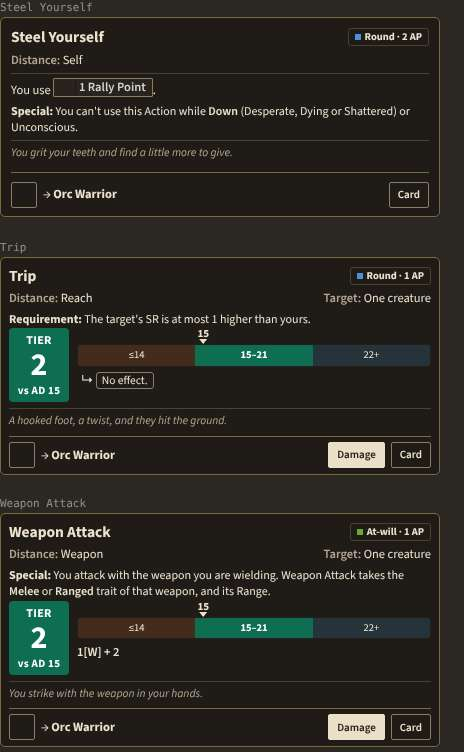
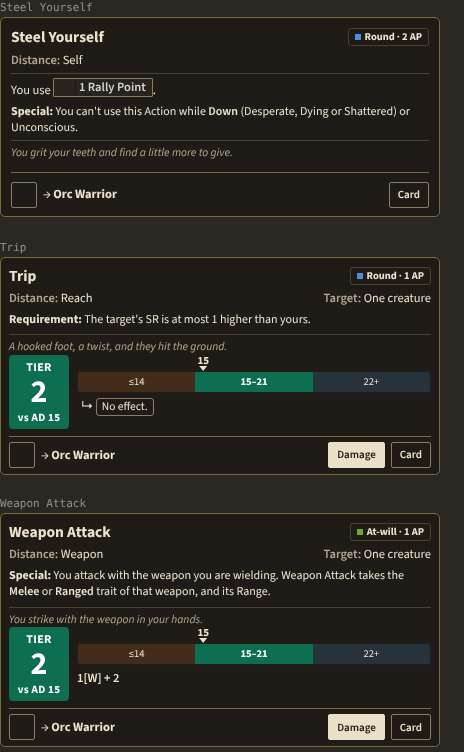
v0.0.465: Art card toggle and placement, Nonlethal switch as a cost, chat follows dice, Special and Flavor above the roll, Empowered on the map, Shake Off card
Claude-Session: https://claude.ai/code/session_0153o4CgPzGXNWFbB3JUtc8q

Changed region(s): [[0.0, 0.7952, 0.9353, 0.9481], [0.0, 0.4282, 0.9353, 0.5811]]

diff --git a/foundry/to-test.md b/foundry/to-test.md
@@ -19,116 +19,47 @@ differ):
 
 ## Characters and sheets
 
-### guard-zero · v0.0.463 · Guard down to 0 with kept AP
-Do: Aveline ends her turn with 1 AP kept (it gives Guard); on her sheet, right-click the Guard until it stops.
-Expect: The number goes down to 0 (her own Guard first, then the kept AP's).
-
-
-### pc-symbols · v0.0.460 · The stat symbols on the PC sheet
-Do: Open Aveline's sheet (dark and light).
-Expect: AD, WD, Speed, Reach, Size, Steady and Guard have the same small symbols as the NPC sheet (AD a shield with a dot, WD the talisman); Immune / Resist / Weak theirs; the Attributes none.
-
-### inventory · v0.0.460 · The Inventory's menus close on a second click
-Do: Open Sylwen's Inventory; click the Dagger's Where button, then click it again; same with the Hunting Bow's Where; on her Overview, click a hand tile twice.
-Expect: The second click closes the menu (it no longer flicks open again).
-Rev: 2
-
 ## The HUD
 
-### sit-pictures · v0.0.460 · Pictures in the Situational section
-Do: Start a combat with three Goblin Sneaks set as one squad (Initiative window); when the squad's turn comes, read the HUD's Situational section.
-Expect: The goblins' pictures are small squares (about 34 px) in one wrapping row; the section doesn't fill or need scrolling for them. If what covered the section was something else, send a screenshot.
-
-### setup-squares · v0.0.461 · A Setup's squares left, in the Situational section
-Do: In a combat, Sylwen uses Strafe (the Advance Setup): read the HUD's Situational section, move her token 2 squares, read it again; then Cancel.
-Expect: "Strafe: You Advance. Move your token, then Continue." (no braces), "4 of 6 squares left" on its own line with the number big, updated as she moves; Continue: the roll filled, Cancel the Action quiet, and the key line "Enter Continue · Esc Cancel the Action · Right-click pans the map".
-Rev: 2
-
-### art-card · v0.0.460 · The Art's card: moved, and a Mode used at once
-Do: Aveline clicks Commandment on her HUD; drag the card by its top line; click outside it; click a Mode's "Use · 1 AP"; open it again and Shift-click a Mode's Use.
-Expect: The card moves with the drag and, once moved, stays open on an outside click (the ×, Escape or a Use close it). A plain click uses the Mode straight to the chat (no roll dialog, unless something blocks it, such as no target); Shift-click opens the roll dialog.
-Rev: 2
+### art-card · v0.0.465 · The Art's card: where it opens, a second click
+Do: Aveline clicks Commandment on her HUD; click Commandment again; open it again and right-click Commandment; open it from her sheet.
+Expect: The card opens beside the Art clicked (to its right, its bottom level with it), not high up the window. A second click on the Art closes it (it doesn't reopen); a right-click on it closes it too.
+Rev: 3
 
 ## Starting a combat
 
-### judge-start · v0.0.462 · Judge on the Start of the Encounter card, once
-Do: Put Aveline, Durgan and the Ogre Chieftain in a combat, roll Initiative and start it; Resolve the card.
-Expect: One Judge row for each Paladin (not two), each with its Judge button; Resolve asks each for its target once. No "The Combat … does not exist" error in the console when a combat is deleted mid-movement.
-Rev: 2
-
 ## The roll dialog
-
-### area-place · v0.0.460 · An area Action: Place before the targets
-Do: With the Orc Warrior targeted, Durgan uses Word of Radiance from his HUD (not the sheet): read the dialog; click "Place 2 Emanation" and place it; then use it again and press Roll without placing.
-Expect: From the HUD as from the sheet, the dialog opens first (no area asked before it). No creature rows until the area is placed: a "Place 2 Emanation" button stands where they go, its outline pulsing slowly in bronze. Placed, the creatures in it show. Roll without placing asks to place it, then rolls.
 
 ### warn-dialog · v0.0.460 · Rules broken: warnings in the roll dialog
 Do: As a player (not the GM): Sylwen targets the Orc Warrior behind a wall (all four corners blocked) and uses a Weapon Attack; then a target the GM marked Unsensed; then Quick Shots' second shot at the creature of the first; give her bow Reload and shoot it unloaded.
 Expect: None of them stops the Action: the roll dialog opens with its warning written above the bottom bar, one ruled line with a small red warning icon ("No Line of Effect to Orc Warrior: all four corners are blocked", "… is Unsensed: it can't be targeted (the roll is Doomed)", "… was already a target: the card asks for a different creature", "… is unloaded: Reload it before using it again"), and Roll works.
 Rev: 2
 
-### g2-darting · v0.0.460 · Darting Blade draws its Light weapon
-Do: Sylwen with her Hunting Bow in both hands and her Dagger on her (Inventory: "On you"), no off-hand weapon: use Darting Blade on the Orc Warrior and Roll. Then put the Dagger in her pack (no Light weapon at all) and use it again.
-Expect: With the Dagger on her: the dialog shows the Dagger's Strike (not Fists); on Roll a chat line says "Sylwen draws Dagger, Hunting Bow in one hand (Darting Blade's Setup)", the Dagger is in her off hand and the bow in one hand. With no Light weapon: the roll dialog opens with the warning "Darting Blade needs a light weapon in hand" above its bar (it then rolls with what she holds), and Roll still works.
-Rev: 3
-
-### reload-chip · v0.0.460 · The Reload shot's chip
-Do: Give Sylwen's bow the Reload property (its sheet) and open a Weapon Attack's roll dialog with it; click the "Reload shot" chip on, then off, without clicking anywhere else.
-Expect: No red outline after a click: green when on, dashed and struck through when off. (Pressing Tab still shows a blue focus outline.)
-Rev: 2
-
-### warn-only · v0.0.460 · A Requirement warns in the roll dialog
-Do: On Sylwen's turn, move a square, then use Wounding Shot.
-Expect: No Foundry popup: the roll dialog opens with "Wounding Shot: Sylwen has left its square this turn (its Requirement). Used anyway." written above its bar, and Roll works. (With the HUD's Skip roll dialog on, the popup comes instead.)
-Rev: 2
-
 ## Chat cards
 
-### save-nonlethal · v0.0.460 · A Save Action switched to Nonlethal
-Do: Durgan uses Word of Radiance on two goblins; in the roll dialog's Damage row, turn on "Nonlethal: +1 Boon on each Save", Use; each goblin rolls its Save; apply the damage.
-Expect: The switch is in the Damage row (next to Empowered). No Bane on Durgan. Each goblin's Save dialog starts with 1 Boon more. The damage card says Nonlethal and the damage is applied as Nonlethal.
-Rev: 2
-
-### dmg-ledger · v0.0.460 · Apply's right-click menu
-Do: Durgan Smites the Orc Warrior with the chat scrolled to the bottom (the card the last message); right-click Apply; then, once applied, right-click Undo.
-Expect: The menu (Apply full / Apply half, rounded up / Apply double) floats over the page by the button, above it when there is no room below, never under the chat's input; a click on a line applies it and closes the menu.
-Rev: 2
-
-### chat-follow · v0.0.460 · The chat follows a growing card
-Do: With the chat at its bottom, Sylwen makes a Weapon Attack on the Orc Warrior: click Damage, then Apply; then Durgan Smites it (Damage, Apply). Then scroll up a little and click a damage stamp's link to its roll card.
-Expect: At the bottom, the chat follows the card each time it grows (after Damage, after Apply, after the dice): its last line stays in sight. Scrolled up, or after the jump to the roll card, it stays where you are.
+### save-nonlethal · v0.0.465 · A Save Action's Nonlethal switch looks like a cost
+Do: Durgan uses Word of Radiance on two goblins; look at the roll dialog's Damage row; turn the switch on.
+Expect: "Nonlethal: +1 Boon on each Save" has a red outline and a minus mark (a cost, like a Bane), on and off.
 Rev: 3
 
-### empowered-one · v0.0.460 · Empowered with several creatures: you choose
-Do: Give Sylwen Empowered; she uses Volley on three enemies and two or more are hit; click Damage.
-Expect: A window "Empowered" asks which creature takes the Empowered 1d6! (each listed with its Tier); the one picked has its own line on the damage card with the die, the others don't. Closing the window gives it to the first one hit.
-Rev: 2
+### chat-follow · v0.0.465 · The chat follows a card grown by its dice
+Do: With the chat at its bottom (and Dice So Nice on, if you use it), Sylwen makes a Weapon Attack on the Orc Warrior and clicks Damage; then Apply.
+Expect: After the dice land, the card's last line is in sight; after Apply too. The card reads: its lines, its Special and Flavor, then the roll and the damage.
+Rev: 4
+
+### empowered-one · v0.0.465 · Empowered with several creatures: chosen on the map
+Do: Give Sylwen Empowered; she uses Volley on three enemies, two or more hit; click Damage; click one of the hit enemies' tokens on the map.
+Expect: The HUD's Situational tab asks which creature takes the 1d6! (their pictures, and the gold rings on the map); the one clicked takes it, on its own line.
+Rev: 3
 
 ## Conditions and their Tiers
 
-### npc-fists · v0.0.460 · An NPC's Fists on its sheet
-Do: Open the Orc Warrior's sheet, Basic Actions; use its Fists on Aveline.
-Expect: Fists is in the sheet's Basic Actions, as on its HUD; it rolls the Orc's Weapon Modifier and deals 1[W] (the Fists' die) plus its Weapon Modifier on Tiers 2 and 3. (Weapon Attack, Reload, Regrip and Release stay hidden on an NPC's sheet.)
-Rev: 4
-
-### shake-off-other · v0.0.426 · Shake Off on another player's creature
-Do: As Sylwen's player (not the GM), with the GM connected, use Shake Off on Kaela (another player's character) while she is Lingering, and get a Tier 3.
-Expect: The Lingering ends (no permission error in the console).
-
-### shake-off-ally · v0.0.462 · Shake Off by an ally: it finds the Lingering creature
-Do: On Kaela's turn, with Kaela's token selected and Durgan (Lingering) targeted, she uses Shake Off; get a Tier 2. Then once with nothing targeted, on Kaela herself with a Lingering.
-Expect: Durgan rolls the Save (not "Kaela has no Lingering"); at the end of Kaela's turn he takes half the Lingering's damage ("Halved (Shake Off, Tier 2)"), then it ends; nothing at the end of Durgan's own turn. With nothing targeted, Kaela's own Lingering.
+### shake-off-other · v0.0.465 · Shake Off's Save in the system's look
+Do: On Kaela's turn, she uses Shake Off on Durgan's Lingering (another player's creature).
+Expect: One card titled "Shake Off": "Durgan: Body Save 15 vs DC 13: Tier 2" (his Attribute), then what happens to the Lingering; no old roll card.
 Rev: 2
 
 ## Movement
-
-### map-attention · v0.0.461 · A token that needs you: the ring and its ripple
-Do: The Orc Warrior moves away from Aveline (she can Rebuke); then Durgan uses Rebuke's Pushed on two goblins (the push list); in Configure Settings turn "Map: the attention ripple" off and repeat.
-Expect: Aveline wears a steady gold ring with a slow ripple growing out of it and fading (about every 2.4 s), and a dark plate "Rebuke? / Use or Pass in the HUD". The goblins to pick wear the same ring and ripple with a number (as their pictures in the HUD); the hovered one brighter. With the setting off (or the system's reduced motion): the ring alone, no ripple. The serious look: no glow, no flashing.
-
-### move-range · v0.0.461 · Advance and Evade on the map
-Do: Sylwen Advances (a card's free Advance) in a scene with a Difficult Terrain region and an enemy near; then an Evade (Slip Away); press Escape during each.
-Expect: Where she can stop in pale ink (no blue); Difficult Terrain inside the Advance's area hatched; the Evade's edge dashed, the squares next to it she can't enter hatched red. The HUD's bar shows "N squares left" big, updated as she moves, and a key line; Escape ends the movement (as End movement).
 
 ### forced-move · v0.0.461 · A Forced Movement: one look, Escape, Backspace
 Do: Durgan's Rebuke pushes the Orc Warrior: hover squares, then press Escape. Push it again and click a square into a wall. Then a Slid 3 (any card): click two squares, press Backspace, then right-click and drag the map, then Enter.

diff --git a/foundry/reference.md b/foundry/reference.md
@@ -181,6 +181,7 @@ Ricochet's Line of Effect and Cover from the surface; Cover for area effects and
 
 ## Changelog
 
+- **v0.0.465 (Lucas's checklist report on v0.0.464):** **The Art's card** closes when its Art is clicked again (or right-clicked), and opens beside what was clicked, its bottom level with it (it opened high up the window). **A Save Action's Nonlethal switch** is drawn as a cost (a red outline), since it helps the targets. **The chat follows a card** grown by its damage dice (checked again after the dice's animation, and on Dice So Nice's "done"). **The chat card's order:** the card's Special and its Flavor come right after its lines, before the roll and the damage (they were under them); the gallery's chat shots changed. **Empowered with several creatures** asks on the map bar (click a token or its picture). **Shake Off's Save** posts one card in the system's look ("Shake Off", the Save and its Tier, what happens to the Lingering), not the old roll card and a line. Test t273 changed (the Save card's order).
 - **v0.0.464 (Lucas, 2026-11-20, a rule: "Yes, it should limit by reach, its like you are moving the person"):** **every Reposition stays within the mover's Reach** the whole way (book, Chapter 3, Reposition; it was Relocate's own requirement): Rescue, Seizing Cut and the others offer only the squares within the Paladin's (or the user's) Reach, and a square beyond it says why. An area's Reposition (no creature as its origin) keeps no limit.
 - **v0.0.463 (Lucas's checklist report on v0.0.462 and his notes):** **Guard can reach 0 with kept AP:** the sheet's Guard is the creature's Guard plus the Guard of its kept AP; a right-click took only from the first, so the number stopped above 0 (it now takes from its own Guard, then the kept AP's). **The key lines** no longer say "Right-click pans the map". **A question asked with no HUD on screen** (the GM, Judge's "reduce that damage?") moves into the HUD's Situational section when a token brings the HUD up (it stayed a small floating bar). **Judge's reduction needs Line of Effect** from the Paladin to the ally. **The area's question** names the Action (or "The area", capitalized), and **Prone's Stand / Crawl** comes after the new questions in the Situational section. **A linked name in a chat line** (Armor of Faith, for using Shield of Faith) reads as bold text with a dotted underline, not a box. **The damage breakdown after Apply** lists the reductions (Judge, by whose; Shield of Faith) and the Guard taken. **The Reactions message** is no longer updated when it has none ("Cannot read properties of null (reading 'update')"). **The hover card over Consecrated Ground** says its Guard ("Allies and you: Guard your Power Modifier at the start of their turns"). **Word of Radiance's damage card** no longer shows a Tier's d6 group once its creature (Judged) took its own d8 roll. Tests t268 changed (its threshold); t291 new.
 - **v0.0.462 (Lucas's checklist report on v0.0.459, its new results):** **Judge on the Start of the Encounter card** was there twice: Judge's own setting already posts its row, and v0.0.453 added another (now only when there is none). **The turn log** no longer writes to a deleted combat ("The Combat … does not exist"): every writer checks it. **Shake Off by an ally** found the selected token (the user) before the targeted one, so it said "Kaela has no Lingering": it now takes, in order, the card's targets, your targets, the selected tokens and yourself, the first with a Lingering. **Move back all the way** gives back only the last drag's squares (it restored the movement as before, which could refund an earlier drag too), unless that drag bought its Advance (then its AP and squares as before it). **pushed-button:** a click on a card's Tier line or rider with no button logs what it holds ("twod12 | pushed-button diagnostic"). The tests passed in the report are off the list.

diff --git a/foundry/twod12/docs/reference.md b/foundry/twod12/docs/reference.md
@@ -181,6 +181,7 @@ Ricochet's Line of Effect and Cover from the surface; Cover for area effects and
 
 ## Changelog
 
+- **v0.0.465 (Lucas's checklist report on v0.0.464):** **The Art's card** closes when its Art is clicked again (or right-clicked), and opens beside what was clicked, its bottom level with it (it opened high up the window). **A Save Action's Nonlethal switch** is drawn as a cost (a red outline), since it helps the targets. **The chat follows a card** grown by its damage dice (checked again after the dice's animation, and on Dice So Nice's "done"). **The chat card's order:** the card's Special and its Flavor come right after its lines, before the roll and the damage (they were under them); the gallery's chat shots changed. **Empowered with several creatures** asks on the map bar (click a token or its picture). **Shake Off's Save** posts one card in the system's look ("Shake Off", the Save and its Tier, what happens to the Lingering), not the old roll card and a line. Test t273 changed (the Save card's order).
 - **v0.0.464 (Lucas, 2026-11-20, a rule: "Yes, it should limit by reach, its like you are moving the person"):** **every Reposition stays within the mover's Reach** the whole way (book, Chapter 3, Reposition; it was Relocate's own requirement): Rescue, Seizing Cut and the others offer only the squares within the Paladin's (or the user's) Reach, and a square beyond it says why. An area's Reposition (no creature as its origin) keeps no limit.
 - **v0.0.463 (Lucas's checklist report on v0.0.462 and his notes):** **Guard can reach 0 with kept AP:** the sheet's Guard is the creature's Guard plus the Guard of its kept AP; a right-click took only from the first, so the number stopped above 0 (it now takes from its own Guard, then the kept AP's). **The key lines** no longer say "Right-click pans the map". **A question asked with no HUD on screen** (the GM, Judge's "reduce that damage?") moves into the HUD's Situational section when a token brings the HUD up (it stayed a small floating bar). **Judge's reduction needs Line of Effect** from the Paladin to the ally. **The area's question** names the Action (or "The area", capitalized), and **Prone's Stand / Crawl** comes after the new questions in the Situational section. **A linked name in a chat line** (Armor of Faith, for using Shield of Faith) reads as bold text with a dotted underline, not a box. **The damage breakdown after Apply** lists the reductions (Judge, by whose; Shield of Faith) and the Guard taken. **The Reactions message** is no longer updated when it has none ("Cannot read properties of null (reading 'update')"). **The hover card over Consecrated Ground** says its Guard ("Allies and you: Guard your Power Modifier at the start of their turns"). **Word of Radiance's damage card** no longer shows a Tier's d6 group once its creature (Judged) took its own d8 roll. Tests t268 changed (its threshold); t291 new.
 - **v0.0.462 (Lucas's checklist report on v0.0.459, its new results):** **Judge on the Start of the Encounter card** was there twice: Judge's own setting already posts its row, and v0.0.453 added another (now only when there is none). **The turn log** no longer writes to a deleted combat ("The Combat … does not exist"): every writer checks it. **Shake Off by an ally** found the selected token (the user) before the targeted one, so it said "Kaela has no Lingering": it now takes, in order, the card's targets, your targets, the selected tokens and yourself, the first with a Lingering. **Move back all the way** gives back only the last drag's squares (it restored the movement as before, which could refund an earlier drag too), unless that drag bought its Advance (then its AP and squares as before it). **pushed-button:** a click on a card's Tier line or rider with no button logs what it holds ("twod12 | pushed-button diagnostic"). The tests passed in the report are off the list.

diff --git a/HANDOFF.md b/HANDOFF.md
@@ -2,7 +2,8 @@
 
 A homebrew tabletop RPG (the "2d12 system") and its Foundry VTT V14 system. Read this file first, then **MASTER-PLAN.md** (the order of all open work).
 
-## Where we are now (v0.0.464, 289 tests; READ THIS FIRST)
+## Where we are now (v0.0.465, 289 tests; READ THIS FIRST)
+- **2026-11-20 (v0.0.465; NOT tested by Lucas): his v0.0.464 report** (15 passed, deleted): the Art card toggles and opens beside its Art, the Save Action's Nonlethal switch as a cost, the chat follows after the dice, the chat card's Special and Flavor above the roll, Empowered picked on the map, Shake Off's Save as a sysCard.
 - **2026-11-20 (v0.0.464): a rule, Lucas: every Reposition stays within the mover's Reach** (book Chapter 3 and the Glossary, the example and its diagram redrawn; Foundry `move.mjs choosePath`).
 - **2026-11-20 (v0.0.463; NOT tested by Lucas): his v0.0.462 report and notes** (Guard to 0 with kept AP, no "Right-click pans", a floating question docks in the HUD, Judge needs Line of Effect, Prone under the asks, chat links as text, the breakdown's reductions and Guard, the zone hover's Guard, Word of Radiance's empty d6 group). Rescue's Reposition: answered and applied in v0.0.464.
 - **2026-11-20 (v0.0.462; NOT tested by Lucas): his v0.0.459 report's new results:** Judge's start-of-encounter row once, the turn log skips a deleted combat, Shake Off finds the targeted Lingering creature, Move back refunds only the last drag, a diagnostic for the Pushed button (unexplained: waits for his console line).
